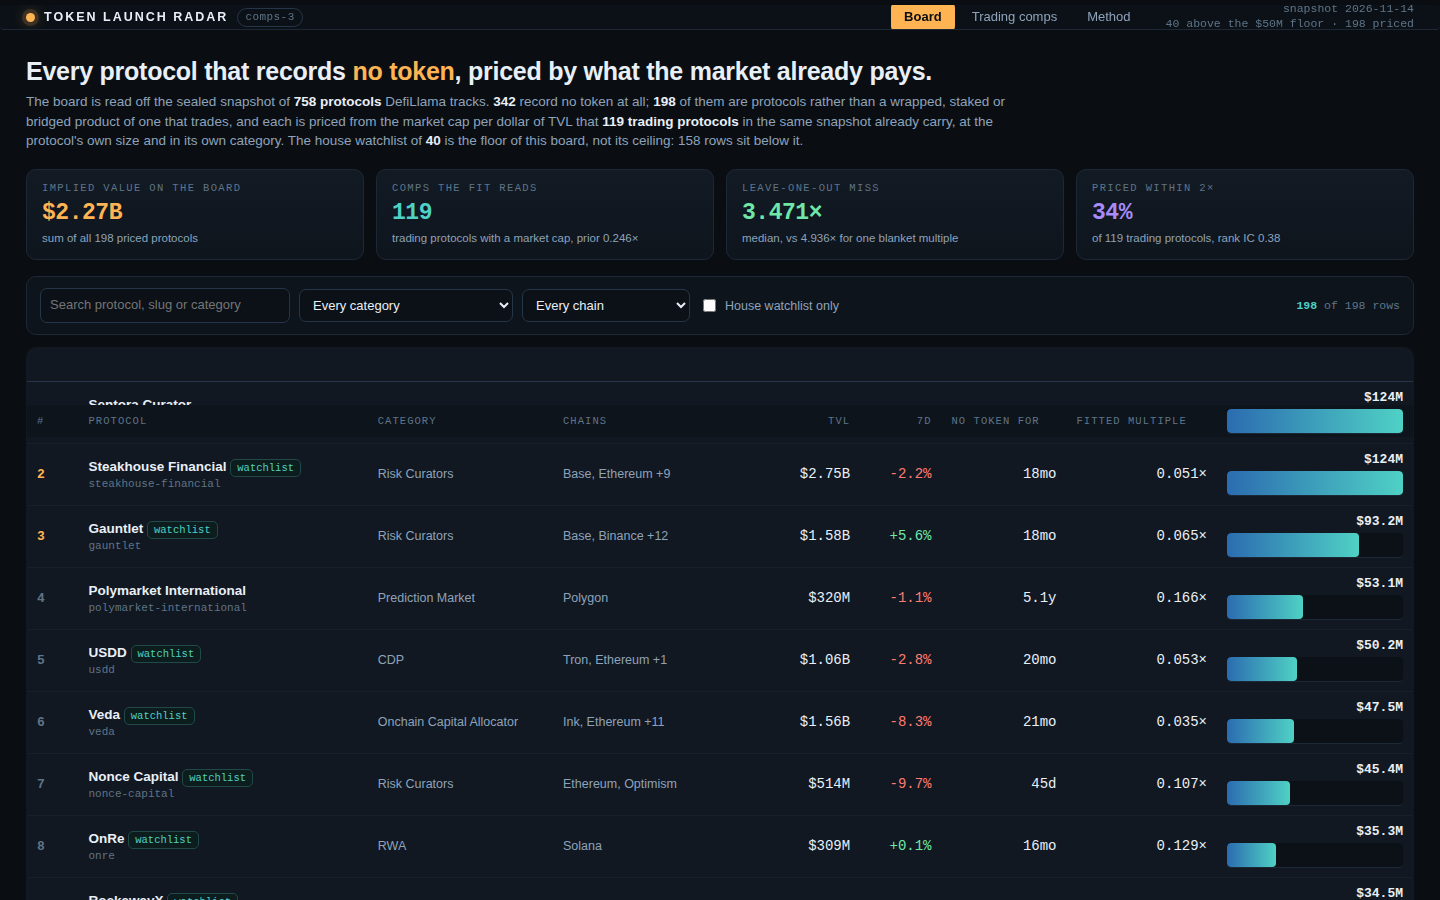
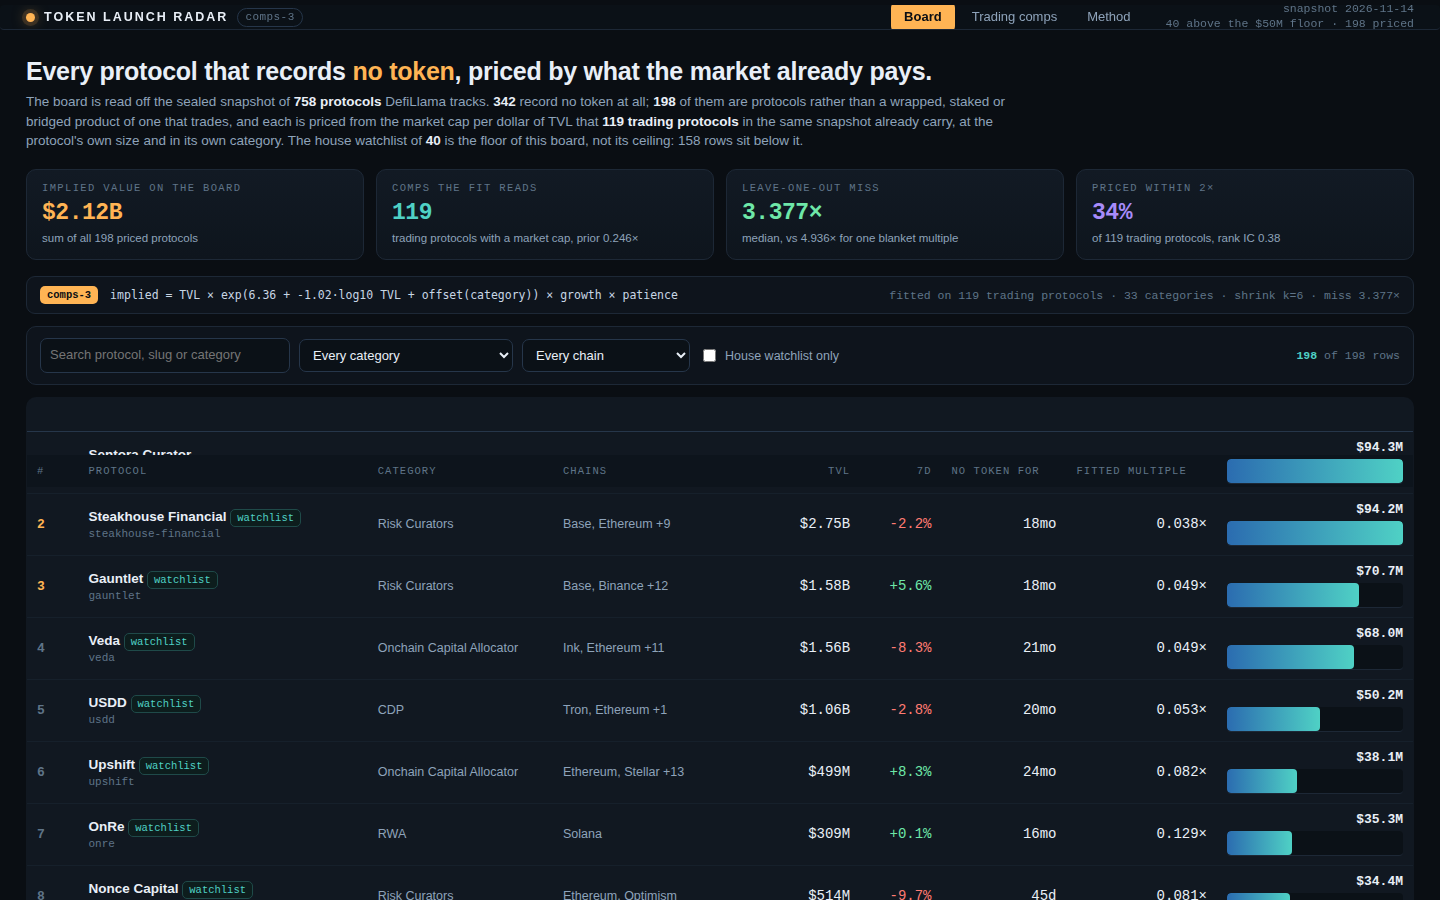
Value curve chart, comps behind each multiple, thin-category rule, exit step

diff --git a/dashboard/app.js b/dashboard/app.js
@@ -32,6 +32,92 @@
   function age(d) { return d === null || d === undefined ? 'n/a' : d >= 730 ? (d / 365).toFixed(1) + 'y' : d >= 60 ? Math.round(d / 30) + 'mo' : d + 'd'; }
   function esc(s) { return String(s).replace(/[&<>"]/g, function (c) { return ({ '&': '&amp;', '<': '&lt;', '>': '&gt;', '"': '&quot;' })[c]; }); }
 
+  // ---------- drawn graphics ----------
+  var PALETTE = ['#ffb454', '#4fd1c5', '#a78bfa', '#6ee7a8', '#ff8fab', '#7dd3fc', '#f0a4ff', '#c9d67a'];
+  function catColor(c) {
+    var i = catList.indexOf(c);
+    return i >= 0 && i < PALETTE.length ? PALETTE[i] : '#5f7488';
+  }
+  function median(v) {
+    if (!v.length) return 0;
+    var s = v.slice().sort(function (a, b) { return a - b; });
+    var m = s.length >> 1;
+    return s.length % 2 ? s[m] : (s[m - 1] + s[m]) / 2;
+  }
+
+  /** The value curve: every priced protocol as a dot on TVL against implied value, the median curve
+   *  through them, and the top of the board called out. Drawn as SVG, no canvas and no network. */
+  function chartSvg() {
+    var W = 1360, H = 330, L = 62, R = 18, T = 18, B = 34;
+    var xs = rows.map(function (r) { return Math.log10(r.tvl_usd); });
+    var ys = rows.map(function (r) { return Math.log10(r.implied_value_usd); });
+    var x0 = Math.min.apply(null, xs), x1 = Math.max.apply(null, xs);
+    var y0 = Math.min.apply(null, ys), y1 = Math.max.apply(null, ys);
+    var px = function (v) { return L + ((v - x0) / (x1 - x0)) * (W - L - R); };
+    var py = function (v) { return H - B - ((v - y0) / (y1 - y0)) * (H - T - B); };
+    var out = [];
+    // median curve: bins of TVL with the median implied value in each
+    var bins = 14, curve = [];
+    for (var i = 0; i < bins; i++) {
+      var lo = x0 + ((x1 - x0) * i) / bins, hi = x0 + ((x1 - x0) * (i + 1)) / bins;
+      var inBin = rows.filter(function (r) { var l = Math.log10(r.tvl_usd); return l >= lo && l <= hi; });
+      if (!inBin.length) continue;
+      curve.push([px(lo + (hi - lo) / 2), py(Math.log10(median(inBin.map(function (r) { return r.implied_value_usd; }))))]);
+    }
+    var line = curve.map(function (p, i) { return (i ? 'L' : 'M') + p[0].toFixed(1) + ' ' + p[1].toFixed(1); }).join(' ');
+    var area = line + ' L' + curve[curve.length - 1][0].toFixed(1) + ' ' + (H - B) + ' L' + curve[0][0].toFixed(1) + ' ' + (H - B) + ' Z';
+    out.push('<svg class="viz" viewBox="0 0 ' + W + ' ' + H + '" role="img" aria-label="Implied value against TVL for every priced protocol">');
+    out.push('<defs><linearGradient id="fill" x1="0" y1="0" x2="0" y2="1">' +
+      '<stop offset="0%" stop-color="#4fd1c5" stop-opacity=".38"/><stop offset="60%" stop-color="#2b6cb0" stop-opacity=".13"/>' +
+      '<stop offset="100%" stop-color="#0a0e13" stop-opacity="0"/></linearGradient>' +
+      '<linearGradient id="glow" x1="0" y1="0" x2="1" y2="0"><stop offset="0%" stop-color="#ffb454"/>' +
+      '<stop offset="100%" stop-color="#4fd1c5"/></linearGradient></defs>');
+    // grid + labels
+    var yTicks = [], xTicks = [];
+    for (var d = Math.ceil(y0); d <= y1; d++) yTicks.push(d);
+    [Math.log10(5e6), Math.log10(2e7), Math.log10(1e8), Math.log10(5e8), Math.log10(2e9), Math.log10(1e10)].forEach(function (v) {
+      if (v >= x0 && v <= x1) xTicks.push(v);
+    });
+    yTicks.forEach(function (d) {
+      var y = py(d);
+      out.push('<line x1="' + L + '" y1="' + y.toFixed(1) + '" x2="' + (W - R) + '" y2="' + y.toFixed(1) + '" stroke="#16202b" stroke-width="1"/>');
+      out.push('<text x="' + (L - 9) + '" y="' + (y + 3.5).toFixed(1) + '" text-anchor="end" class="ax">' + usd(Math.pow(10, d)) + '</text>');
+    });
+    xTicks.forEach(function (v) {
+      var x = px(v);
+      out.push('<line x1="' + x.toFixed(1) + '" y1="' + T + '" x2="' + x.toFixed(1) + '" y2="' + (H - B) + '" stroke="#16202b" stroke-width="1" stroke-dasharray="2 5"/>');
+      out.push('<text x="' + x.toFixed(1) + '" y="' + (H - B + 18) + '" text-anchor="middle" class="ax">' + usd(Math.pow(10, v)) + '</text>');
+    });
+    out.push('<path d="' + area + '" fill="url(#fill)"/>');
+    out.push('<path d="' + line + '" fill="none" stroke="url(#glow)" stroke-width="2.2" stroke-linejoin="round" opacity=".95"/>');
+    rows.forEach(function (r) {
+      var c = catColor(r.category || 'unclassified');
+      out.push('<circle cx="' + px(Math.log10(r.tvl_usd)).toFixed(1) + '" cy="' + py(Math.log10(r.implied_value_usd)).toFixed(1) +
+        '" r="' + (r.rank <= 10 ? 5 : 3.2) + '" fill="' + c + '" fill-opacity="' + (r.rank <= 10 ? '.95' : '.55') + '" stroke="' + (r.rank <= 10 ? '#0a0e13' : 'none') + '" stroke-width="1.4"/>');
+    });
+    rows.slice(0, 3).forEach(function (r) {
+      out.push('<text x="' + (px(Math.log10(r.tvl_usd)) + 9).toFixed(1) + '" y="' + (py(Math.log10(r.implied_value_usd)) + 4).toFixed(1) + '" class="lbl">' + esc(r.name) + '</text>');
+    });
+    out.push('<text x="' + L + '" y="' + (H - 4) + '" class="ax">TVL, log scale →</text>');
+    out.push('<text x="' + (W - R) + '" y="' + (T + 10) + '" text-anchor="end" class="ax">implied value, log scale ↑</text>');
+    out.push('</svg>');
+    return out.join('');
+  }
+
+  /** The board's composition: a stacked strip of categories, widest first. */
+  function heatStrip() {
+    var total = rows.length, x = 0, parts = [], legend = [];
+    catList.slice(0, 8).forEach(function (c, i) {
+      var w = (cats[c] / total) * 100;
+      parts.push('<i style="left:' + x.toFixed(2) + '%;width:' + w.toFixed(2) + '%;background:' + PALETTE[i] + '"></i>');
+      legend.push('<span><b style="background:' + PALETTE[i] + '"></b>' + esc(c) + ' <em>' + cats[c] + '</em></span>');
+      x += w;
+    });
+    parts.push('<i style="left:' + x.toFixed(2) + '%;width:' + (100 - x).toFixed(2) + '%;background:#5f7488"></i>');
+    legend.push('<span><b style="background:#5f7488"></b>every other category <em>' + (total - catList.slice(0, 8).reduce(function (a, c) { return a + cats[c]; }, 0)) + '</em></span>');
+    return '<div class="strip">' + parts.join('') + '</div><div class="legend">' + legend.join('') + '</div>';
+  }
+
   // ---------- header ----------
   document.getElementById('ver').textContent = D.model_version;
   document.getElementById('meta').innerHTML =
@@ -82,12 +168,14 @@
       '<b>' + D.pre_token_total + '</b> record no token at all; <b>' + D.board_size + '</b> of them are protocols rather than a wrapped, staked or bridged product of one that trades, and each is priced ' +
       'from the market cap per dollar of TVL that <b>' + fit.prior_comps + ' trading protocols</b> in the same snapshot already carry, at the protocol\'s own size and in its own category. ' +
       'The house watchlist of <b>' + D.watchlist_size + '</b> is the floor of this board, not its ceiling: ' + D.below_floor + ' rows sit below it.</p>' +
-      '<div class="stats">' +
-        '<div class="stat amber"><div class="k">Implied value on the board</div><div class="v">' + usd(D.implied_total_usd) + '</div><div class="s">sum of all ' + D.board_size + ' priced protocols</div></div>' +
+      '<div class="stats">' +        '<div class="stat amber"><div class="k">Implied value on the board</div><div class="v">' + usd(D.implied_total_usd) + '</div><div class="s">sum of all ' + D.board_size + ' priced protocols</div></div>' +
         '<div class="stat cyan"><div class="k">Comps the fit reads</div><div class="v">' + fit.prior_comps + '</div><div class="s">trading protocols with a market cap, prior ' + x(fit.prior_multiple) + '</div></div>' +
         '<div class="stat green"><div class="k">Leave-one-out miss</div><div class="v">' + x(chk.model_median_miss) + '</div><div class="s">median, vs ' + x(chk.blanket_median_miss) + ' for one blanket multiple</div></div>' +
         '<div class="stat violet"><div class="k">Priced within 2×</div><div class="v">' + Math.round(chk.within_2x * 100) + '%</div><div class="s">of ' + chk.scored + ' trading protocols, rank IC ' + chk.rank_ic.toFixed(2) + '</div></div>' +
       '</div>' +
+      '<div class="modelstrip"><span class="tag">' + D.model_version + '</span>' +
+        '<code>implied = TVL × exp(' + fit.intercept.toFixed(2) + ' + ' + fit.slope.toFixed(2) + '·log10 TVL + offset(category)) × growth × patience</code>' +
+        '<span>fitted on ' + fit.prior_comps + ' trading protocols · ' + fit.categories.length + ' categories · shrink k=' + fit.model.shrink_k + ' · miss ' + x(chk.model_median_miss) + '</span></div>' +
       '<div class="controls">' +
         '<input id="q" type="search" placeholder="Search protocol, slug or category" value="' + esc(state.q) + '">' +
         '<select id="cat"><option value="all">Every category</option>' + catList.map(function (c) { return '<option value="' + esc(c) + '"' + (state.cat === c ? ' selected' : '') + '>' + esc(c) + ' (' + cats[c] + ')</option>'; }).join('') + '</select>' +
@@ -111,6 +199,12 @@
         '</tr>';
       }).join('') +
       '</tbody></table>' +
+      '<div class="card vizcard" id="curve">' +
+        '<div class="vizhead"><h2>The board as a curve</h2>' +
+          '<span class="hint">a dot is a priced protocol, its colour its category; the line is the median implied value at that TVL, so the board\'s own shape is visible</span>' +
+          '<span class="chip w">watchlist ' + D.watchlist_size + ' / ' + D.watchlist_size + ' covered</span></div>' +
+        chartSvg() + heatStrip() +
+      '</div>' +
       '<div class="foot">Rows: ' + rows.length + ' pre-token protocols, ranked by implied value. Click any row for the arithmetic behind its number and its farm plan. ' +
       'Implied value is this board\'s own claim, derived from the snapshot, never a prediction that a token is issued.</div>';
     app.innerHTML = html;
@@ -120,6 +214,22 @@
   function stepParts(s) {
     var m = s.match(/^(.*?) Cost: (.*)\. Time: (.*)\.$/);
     return m ? { text: m[1], cost: m[2], time: m[3] } : { text: s, cost: '', time: '' };
+  }
+
+  /** The trading protocols this row's multiple was read from: the category's comps, largest first. */
+  function compsTable(r) {
+    var cat = r.category || 'unclassified';
+    var list = (D.comps || []).filter(function (c) { return (c.category || 'unclassified') === cat; }).slice(0, 6);
+    if (!list.length) return '<div class="note">No trading protocol in the snapshot shares this category, so the multiple comes from the market-wide size curve alone.</div>';
+    var med = median(list.map(function (c) { return c.multiple; }));
+    return '<table class="mini"><thead><tr><th>Comp</th><th class="num">TVL</th><th class="num">Market cap</th><th class="num">mcap / TVL</th></tr></thead><tbody>' +
+      list.map(function (c) {
+        return '<tr><td class="cat">' + esc(c.name) + '</td><td class="num">' + usd(c.tvl_usd) + '</td><td class="num">' + usd(c.mcap_usd) + '</td>' +
+          '<td class="num">' + (Math.abs(c.multiple - med) < 1e-9 ? '<b style="color:#ffb454">' + x(c.multiple) + '</b>' : x(c.multiple)) + '</td></tr>';
+      }).join('') +
+      '</tbody></table><p class="small">' + (list.length >= 3
+        ? 'Median ' + x(med) + ' across these ' + list.length + '; the fit shrinks that toward the whole market and then applies the size curve at ' + usd(r.tvl_usd) + ', which lands on ' + x(r.multiple) + '.'
+        : 'These ' + list.length + ' ' + (list.length === 1 ? 'is' : 'are') + ' too few to move the fit — it needs three comps in a category — so the size curve alone lands on ' + x(r.multiple) + '.') + '</p>';
   }
 
   function detailHtml(r) {
@@ -141,12 +251,19 @@
         '<div class="lab tot">TVL × multiple × growth × patience</div><div class="val tot">' + usd(r.implied_value_usd) + '</div>' +
       '</div>' +
       '<h3>Why this multiple</h3>' +
-      '<div class="note">' + (comps
-        ? 'The <b>' + esc(comps.category) + '</b> category carries <b>' + comps.comps + ' trading comps</b> with a median of <b>' + x(comps.median_multiple) + '</b> market cap per dollar of TVL. ' +
-          'Across the whole market the fit pays <b>' + x(comps.multiple_at_100m) + '</b> at $100M of TVL; this protocol is ' + usd(r.tvl_usd) + ', so the size curve puts it at <b>' + x(r.multiple) + '</b>.'
+      '<div class="note">' + (comps && comps.comps >= 3
+        ? 'The <b>' + esc(comps.category) + '</b> category carries <b>' + comps.comps + ' trading comps</b> with a median of <b>' + x(comps.median_multiple) + '</b> market cap per dollar of TVL, so its offset moves the market curve by ' +
+          ((comps.offset >= 0 ? '+' : '') + Math.round((Math.exp(comps.offset) - 1) * 100) + '%') + '. ' +
+          'At $100M of TVL the fit pays <b>' + x(comps.multiple_at_100m) + '</b> here; this protocol is ' + usd(r.tvl_usd) + ', so the size curve puts it at <b>' + x(r.multiple) + '</b>.'
+        : comps
+        ? 'Only <b>' + comps.comps + ' trading protocol' + (comps.comps === 1 ? '' : 's') + '</b> in the snapshot shares the <b>' + esc(comps.category) + '</b> category (median ' + x(comps.median_multiple) + '), which is too thin to move a price: the fit needs three comps before a category may shift the curve, so this row takes the market-wide size curve alone at <b>' + x(r.multiple) + '</b>.'
         : 'This protocol records no DefiLlama category, so it takes the market-wide size curve alone: <b>' + x(r.multiple) + '</b>.') +
         ' Nothing here is special-cased by name: every row runs the same function.</div>' +
+      '<h3>The comps behind this multiple</h3>' +
+      compsTable(r) +
       '<h3>Farm it before the launch</h3>' +
+      '<div class="planstrip"><span><b>$' + r.farm_cost_usd + '</b> capital</span><span><b>' + r.farm_days + ' days</b> hold</span>' +
+      '<span><b>~$2/wk</b> gas</span><span><b>' + r.farm_steps.length + '</b> steps</span></div>' +
       '<ol class="steps">' + r.farm_steps.map(function (s) {
         var p = stepParts(s);
         return '<li>' + esc(p.text) + '<span class="cost">cost: ' + esc(p.cost) + ' · time: ' + esc(p.time) + '</span></li>';
@@ -200,12 +317,13 @@
       '<div class="method">' +
       '<div>' +
         '<div class="card"><h2>The model</h2>' +
-        '<pre><em>y</em> = ln(mcap / tvl), winsorized to [0.01, 20]\n<em>x</em> = log10(tvl)\n\n<em>y</em> = a + b·<em>x</em> + offset(category)      <i># fitted on the comps</i>\n\noffset(c) = n·median(residual) / (n + 6)   <i># shrunk to the market</i>\n\nmultiple(p) = exp(a + b·log10(tvl) + offset(cat))\n\nimplied = tvl · multiple\n          · (1 + clamp(7d, -60, +150)/100 · 0.30)\n          · (0.85 + min(age, 1825)/1825 · 0.15)</pre>' +
+        '<pre><em>y</em> = ln(mcap / tvl), winsorized to [0.01, 20]\n<em>x</em> = log10(tvl)\n\n<em>y</em> = a + b·<em>x</em> + offset(category)      <i># fitted on the comps</i>\n\noffset(c) = n·median(residual) / (n + 6)   <i># shrunk to the market</i>\noffset(c) = 0 when n < 3                  <i># too thin to price</i>\n\nmultiple(p) = exp(a + b·log10(tvl) + offset(cat))\n\nimplied = tvl · multiple\n          · (1 + clamp(7d, -60, +150)/100 · 0.30)\n          · (0.85 + min(age, 1825)/1825 · 0.15)</pre>' +
         '<p>The three inputs are the snapshot\'s own: <b>TVL</b> sets the size, the <b>seven-day change</b> tilts the multiple, and <b>how long the protocol has run with no token</b> tilts it again — a franchise that has survived five years without issuing one is worth more than one that appeared last month.</p>' +
         '<dl class="kv"><dt>a, intercept</dt><dd>' + fit.intercept.toFixed(4) + '</dd>' +
         '<dt>b, size slope</dt><dd>' + fit.slope.toFixed(4) + ' per decade of TVL</dd>' +
         '<dt>prior multiple</dt><dd>' + x(fit.prior_multiple) + ' (median across ' + fit.prior_comps + ' comps)</dd>' +
         '<dt>shrinkage k</dt><dd>' + fit.model.shrink_k + ' comps</dd>' +
+        '<dt>min comps</dt><dd>' + fit.model.min_category_comps + ' per category, else the size curve alone</dd>' +
         '<dt>winsor bounds</dt><dd>' + fit.model.multiple_floor + '× to ' + fit.model.multiple_cap + '×</dd></dl></div>' +
         '<div class="card" style="margin-top:16px"><h2>The screen</h2>' +
         '<p>A protocol is on the board when the snapshot records <b>no market cap, no CoinGecko id and no symbol</b> for it, when it is not a wrapped, staked or bridged product of a token that trades ' +

diff --git a/lib/model.ts b/lib/model.ts
@@ -54,6 +54,7 @@ export interface ModelConstants {
   patience_days: number;
   unknown_age_days: number;
   shrink_k: number;
+  min_category_comps: number;
   multiple_floor: number;
   multiple_cap: number;
   min_tvl: number;
@@ -67,6 +68,7 @@ export const MODEL: ModelConstants = {
   patience_days: 1825,
   unknown_age_days: 365,
   shrink_k: 6,
+  min_category_comps: 3,
   multiple_floor: 0.01,
   multiple_cap: 20,
   min_tvl: 5_000_000,
@@ -160,6 +162,16 @@ export interface LiveRow {
   model_value: number | null;
 }
 
+/** One comp as the detail view lists it: the trading protocols a category's multiple rests on. */
+export interface CompRow {
+  slug: string;
+  name: string;
+  category: string | null;
+  tvl_usd: number;
+  mcap_usd: number;
+  multiple: number;
+}
+
 /** Everything the page renders. */
 export interface RadarData {
   as_of: string;
@@ -176,6 +188,7 @@ export interface RadarData {
   implied_total_usd: number;
   rows: BoardRow[];
   live: LiveRow[];
+  comps: CompRow[];
 }
 
 export class SnapshotError extends Error {
@@ -323,7 +336,9 @@ export function fitModel(snapshot: Snapshot, model: ModelConstants = MODEL): Fit
     .map(([category, list]) => {
       const residuals = list.map((p) => logMultiple(p) - (a + b * Math.log10(p.tvl_usd)));
       const n = list.length;
-      const offset = (n * median(residuals)) / (n + k);
+      // A category with fewer than min_category_comps is too thin to move a price: its offset is
+      // zero, and the size curve alone prices the protocols in it.
+      const offset = n < model.min_category_comps ? 0 : (n * median(residuals)) / (n + k);
       return {
         category,
         comps: n,
@@ -350,7 +365,7 @@ export function fitModel(snapshot: Snapshot, model: ModelConstants = MODEL): Fit
     const rest = comps.filter((q) => q.slug !== p.slug);
     const curve = sizeCurve(rest);
     const residuals = rest.filter((q) => (q.category ?? 'unclassified') === (p.category ?? 'unclassified')).map((q) => logMultiple(q) - (curve.a + curve.b * Math.log10(q.tvl_usd)));
-    const offset = residuals.length === 0 ? 0 : (residuals.length * median(residuals)) / (residuals.length + k);
+    const offset = residuals.length < model.min_category_comps ? 0 : (residuals.length * median(residuals)) / (residuals.length + k);
     const multiple = Math.min(model.multiple_cap, Math.max(model.multiple_floor, Math.exp(curve.a + curve.b * Math.log10(p.tvl_usd) + offset)));
     const actual = p.mcap_usd ?? 0;
     if (actual <= 0) continue;
@@ -475,6 +490,11 @@ export function farmSteps(p: SnapshotProtocol, age: number | null): { steps: Far
       time: '10 minutes a week',
     },
     {
+      text: `Unwind in the order this plan sets: withdraw the borrowed side first, then the supplied collateral, then move the stablecoin out — and leave enough gas for one last transaction.`,
+      cost: 'about $3 of gas to exit, and no exit fee at ' + p.name,
+      time: '20 minutes on the day you leave',
+    },
+    {
       text: `Write the wallet address, the dates and every transaction in a farm log, and note the exit: what you withdraw first and what you leave behind.`,
       cost: 'nothing but the log',
       time: '5 minutes',
@@ -556,6 +576,16 @@ export function buildRadar(snapshot: Snapshot, model: ModelConstants = MODEL): {
   const fit = fitModel(snapshot, model);
   const board = buildBoard(snapshot, fit);
   const live = liveRows(snapshot, fit);
+  const comps: CompRow[] = compsUniverse(snapshot.protocols)
+    .map((p) => ({
+      slug: p.slug,
+      name: p.name,
+      category: p.category,
+      tvl_usd: p.tvl_usd,
+      mcap_usd: p.mcap_usd ?? 0,
+      multiple: round4(Math.min(model.multiple_cap, Math.max(model.multiple_floor, (p.mcap_usd ?? 0) / p.tvl_usd))),
+    }))
+    .sort((a, b) => b.tvl_usd - a.tvl_usd || (a.slug < b.slug ? -1 : 1));
   const radar: RadarData = {
     as_of: snapshot.as_of,
     source: snapshot.source,
@@ -571,6 +601,7 @@ export function buildRadar(snapshot: Snapshot, model: ModelConstants = MODEL): {
     implied_total_usd: board.reduce((a, r) => a + r.implied_value_usd, 0),
     rows: board,
     live,
+    comps,
   };
   return { board, radar };
 }

diff --git a/dashboard/app.css b/dashboard/app.css
@@ -91,3 +91,29 @@ dl.kv dd{margin:0;color:var(--ink)}
 .small{font-size:11.5px;color:var(--dim)}
 .foot{margin-top:22px;font:11px/1.6 var(--mono);color:#43566a;border-top:1px solid var(--line);padding-top:12px}
 @media (max-width:1100px){.stats{grid-template-columns:repeat(2,1fr)}.method{grid-template-columns:1fr}.meta{display:none}}
+
+/* the drawn board: value curve, composition strip, comps table, plan summary */
+.vizcard{padding:14px 16px 12px;margin:16px 0 14px;background:linear-gradient(180deg,#101922,#0c1219)}
+.vizhead{display:flex;align-items:baseline;gap:12px;margin-bottom:4px}
+.vizhead h2{font-size:14px;margin:0}
+.hint{font-size:11.5px;color:var(--dim);flex:1}
+svg.viz{display:block;width:100%;height:auto}
+svg.viz .ax{fill:#5f7488;font:10px var(--mono)}
+svg.viz .lbl{fill:var(--ink);font:600 11px var(--sans)}
+.strip{position:relative;height:11px;margin:8px 0 7px;border-radius:6px;overflow:hidden;background:#0b1117}
+.strip i{position:absolute;top:0;bottom:0;opacity:.9}
+.legend{display:flex;flex-wrap:wrap;gap:5px 16px;font-size:11.5px;color:var(--mute)}
+.legend span{display:flex;align-items:center;gap:6px}
+.legend b{width:9px;height:9px;border-radius:2px;display:inline-block}
+.legend em{font:11px var(--mono);color:var(--dim);font-style:normal}
+table.mini{width:100%;border-collapse:collapse;background:#0b1117;border:1px solid var(--line);border-radius:8px;overflow:hidden;margin-bottom:8px}
+table.mini th{background:#0d141c;font:10px var(--mono);letter-spacing:.08em;text-transform:uppercase;color:var(--dim);text-align:left;padding:7px 9px;border-bottom:1px solid var(--line2)}
+table.mini td{padding:6px 9px;border-bottom:1px solid #141d27;font-size:12.5px}
+table.mini tr:last-child td{border-bottom:0}
+.planstrip{display:flex;gap:8px;flex-wrap:wrap;margin:2px 0 14px}
+.planstrip span{font:11px var(--mono);color:var(--dim);border:1px solid var(--line2);border-radius:20px;padding:5px 10px;background:#0b1117}
+.planstrip b{color:var(--amber);font-weight:600}
+.modelstrip{display:flex;align-items:center;gap:12px;padding:9px 13px;background:var(--panel2);border:1px solid var(--line);border-radius:9px;margin:0 0 12px;font:11.5px var(--mono);color:var(--mute);overflow:hidden}
+.modelstrip code{color:#c8d6e5;white-space:nowrap;overflow:hidden;text-overflow:ellipsis;flex:1}
+.modelstrip span:last-child{color:var(--dim);white-space:nowrap}
+.modelstrip .tag{color:#0a0e13;background:var(--amber);border-radius:5px;padding:3px 7px;font-weight:700;font-size:10.5px;white-space:nowrap}

diff --git a/README.md b/README.md
@@ -25,13 +25,14 @@ y = ln(mcap / tvl)   winsorized to [0.01, 20]
 x = log10(tvl)
 y = a + b·x + offset(category)          fitted on the protocols whose token already trades
 offset(c) = n·median(residual) / (n+6)  shrunk toward the market
+offset(c) = 0 when n < 3               too thin to move a price
 multiple(p) = exp(a + b·log10(tvl) + offset(cat))
 
 implied = tvl · multiple · (1 + clamp(7d,-60,+150)/100 · 0.30) · (0.85 + min(age,1825)/1825 · 0.15)
 ```
 
 The fit is checked leave-one-out: every trading protocol is re-priced from the comps of the others,
-never itself. On this snapshot the median miss is **3.47×**, against **4.94×** for one blanket
+never itself. On this snapshot the median miss is **3.38×**, against **4.94×** for one blanket
 multiple, with 34% inside 2× and a rank correlation of 0.38. Those numbers ship in `data.js` and are
 shown on the page, because a radar that hides its own error is a horoscope.
 
